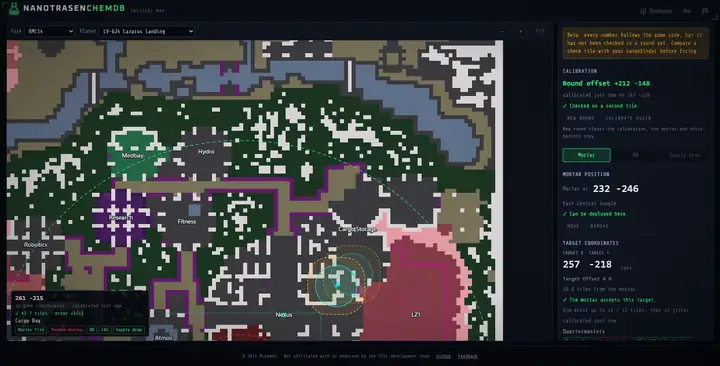
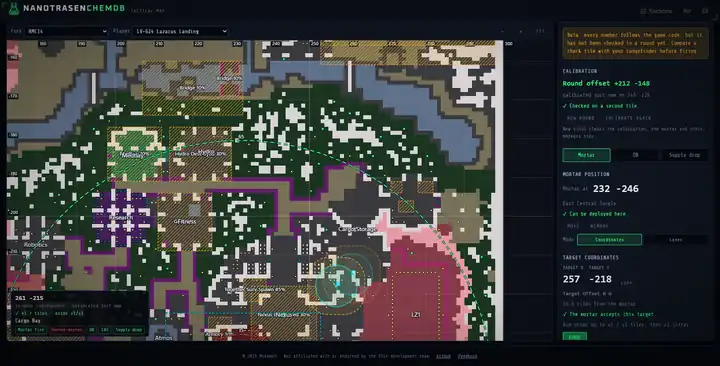
docs(tactical): T10-T12 done, release notes, sitemap, goals registry, card
ROADMAP: T10-T12 [x] with the preview evidence, revision row 3.5 closing
Series T (the final audit cancelled by the owner). README feature row,
CHANGELOG entry for the series and its data contract, tactical.html in the
sitemap, the fifteen tactical_* events in the Metrika goals registry (not
created — that needs the owner's ok), the Sections card re-shot with the
inserts and rings, its what's-new line and inside list refreshed
(home.js v6, service worker cache v106).

diff --git a/sw.js b/sw.js
@@ -3,7 +3,7 @@
 // network-first with cache fallback — fresh while online, functional offline.
 // data.json is requested with a ?v=Date.now() cache-buster, so fallback
 // matching ignores the query string to hit the cached copy.
-const CACHE = 'chemdb-v105';
+const CACHE = 'chemdb-v106';
 // Data lives in its own UNVERSIONED cache: shell-cache bumps must never
 // wipe the 3MB data.json — losing it right after an update + one flaky
 // network moment = hard "Failed to load" (user-reported on mobile).
@@ -20,7 +20,7 @@ const PRECACHE = [
   './botany.js?v=1',
   './vessels.js?v=3',
   './mixes.js?v=2',
-  './home.js?v=5',
+  './home.js?v=6',
   './feedback.js?v=4',
   './library.html',
   './library.js?v=2',

diff --git a/index.html b/index.html
@@ -856,7 +856,7 @@
 <script src="botany.js?v=1" defer></script>
 <script src="vessels.js?v=3" defer></script>
 <script src="mixes.js?v=2" defer></script>
-<script src="home.js?v=5" defer></script>
+<script src="home.js?v=6" defer></script>
 <script src="feedback.js?v=4" defer></script>
 </body>
 </html>

diff --git a/scripts/create_metrika_goals.py b/scripts/create_metrika_goals.py
@@ -108,6 +108,22 @@ GOALS: list[tuple[str, str]] = [
     ("ordnance_mask_use",    "Взрывчатка: смесь из пересечения масок"),
     ("ordnance_recipe_use",  "Взрывчатка: готовый рецепт загружен"),
     ("ordnance_gallery_range", "Взрывчатка: дистанция в витрине"),
+    # Series T — tactical map (tactical.html); ids next to track() in tactical/tactical.js
+    ("tactical_open",           "Тактическая карта: открыта планета"),
+    ("tactical_calibrate",      "Тактическая карта: калибровка раунда"),
+    ("tactical_check_match",    "Тактическая карта: проверочный тайл сошёлся"),
+    ("tactical_check_mismatch", "Тактическая карта: проверочный тайл не сошёлся"),
+    ("tactical_same_round",     "Тактическая карта: «тот же раунд»"),
+    ("tactical_new_round",      "Тактическая карта: «новый раунд»"),
+    ("tactical_copy",           "Тактическая карта: координаты скопированы"),
+    ("tactical_mortar_place",   "Тактическая карта: позиция миномёта"),
+    ("tactical_target",         "Тактическая карта: цель установлена"),
+    ("tactical_shot",           "Тактическая карта: «Выстрел»"),
+    ("tactical_undo_shot",      "Тактическая карта: выстрел отменён"),
+    ("tactical_impact",         "Тактическая карта: «Упало здесь»"),
+    ("tactical_ob_fire",        "Тактическая карта: ОБ отмечен"),
+    ("tactical_marker_add",     "Тактическая карта: метка добавлена"),
+    ("tactical_shape_add",      "Тактическая карта: линия или зона добавлена"),
     ("ordnance_burn_window", "Взрывчатка: окно горения"),
     ("ordnance_surf_swap", "Взрывчатка: обмен высоты и цвета"),
     ("ordnance_req_exclude", "Взрывчатка: исключён реагент из поиска"),

diff --git a/ROADMAP.md b/ROADMAP.md
@@ -742,11 +742,11 @@ SHA коммита на форк, обход нужных поддеревьев
 ### T10. Изменчивые участки `[x]` (2026-09-13; в превью LV-624: штриховка с подписями «Armory 30%», «Central Caves 20%», «Nexus Barricaded 30%», наведение на Corporate Dome даёт «may differ this round: Corporate Dome 10% (in scenario asset_protection)»; эталоны LV-624 и 6 синтетических случаев в `check_tactical.py`; все 4 форка пересобраны, у CMU/RuCM по 15 маркеров) — HAE 4h (backend + frontend) — **зависит от T1**
 Контуры вставок, повтор цикла `ProcessMapInsert` по сценариям планеты, штриховка и проценты, пометка ориентиров внутри. **DoD:** эталоны LV-624 (Corporate Dome 0,1; CLF ship 0; выжившие по 0,45; центр Nexus 0,3); синтетика со смешанными сценариями. Пометка ориентиров внутри — в T11 (ориентиров ещё нет).
 
-### T11. Ориентиры `[ ]` — HAE 5h (backend + frontend) — **зависит от T2**
-Категории и надёжность, миниатюры с 6 px на тайл, фильтры категорий. **DoD:** миниатюры по масштабу; «могут сдвинуть» скрыты по умолчанию.
+### T11. Ориентиры `[x]` (2026-09-13; в превью LV-624: значки категорий от 6 px на тайл, наведение «Ориентир: Столы», «Двери и шлюзы · secure airlock», «Фонари и лампы · tall floodlight (в изменчивом участке)»; стеллажи/ящики/автоматы/баки скрыты по умолчанию и включаются флажком; LV-624 — 1 313 ориентиров из 98 прототипов, 11 категорий) — HAE 5h (backend + frontend) — **зависит от T2**
+Категории и надёжность, миниатюры с 6 px на тайл, фильтры категорий. **DoD:** миниатюры по масштабу; «могут сдвинуть» скрыты по умолчанию. Правила категорий — `LANDMARK_RULES` экстрактора; ориентир внутри изменчивого участка страница приглушает.
 
-### T12. Спрайты, выпуск, итоговый аудит `[ ]` — HAE 5h (frontend + docs) — **зависит от T1–T11**
-Спрайты с 24 px на тайл, `NOTICES` с авторами из `meta.json`; README, CHANGELOG, `sitemap.xml`, реестр целей Метрики (создание — по «ок» владельца), скриншот карточки; итоговый аудит. **DoD:** спрайты вблизи; авторы в `NOTICES`; документы; аудит.
+### T12. Спрайты, выпуск `[x]` (2026-09-13; в превью LV-624 от 24 px на тайл: шлюзы, посадочные огни, деревья и столы спрайтами игры из атласа `tactical/rmc14/sprites.png` (374 прототипа, 231 RSI, все CC-BY-SA-3.0); блок `NOTICES` генерируется экстрактором; README, CHANGELOG, `sitemap.xml`, 15 целей `tactical_*` в реестре (не созданы — ждут «ок»), карточка раздела переснята; итоговый аудит владелец отменил: «лишние аудиты сейчас не нужны») — HAE 5h (frontend + docs) — **зависит от T1–T11**
+Спрайты с 24 px на тайл, `NOTICES` с авторами из `meta.json`; README, CHANGELOG, `sitemap.xml`, реестр целей Метрики (создание — по «ок» владельца), скриншот карточки. **DoD:** спрайты вблизи; авторы в `NOTICES`; документы.
 
 **Шаг владельца до анонса:** push; контрольный раунд — калибровка на тайле пола, три тайла дальномером (один с отрицательными мировыми координатами), осветительные снаряды со сверкой имени Para-Cam; после T8 — то же на одной планете CMU.
 
@@ -781,3 +781,4 @@ SHA коммита на форк, обход нужных поддеревьев
 | 2026-09-13 | 3.2 | Серия T («Тактическая карта») добавлена: спека [docs/design/2026-09-13-tactical-map.md](docs/design/2026-09-13-tactical-map.md), одобренная владельцем по разделам, и war-room из 5 экспертов (первый раунд; владелец остановил обсуждение: «просто реализуй») — [docs/decisions/2026-09-13_tactical-map.md](docs/decisions/2026-09-13_tactical-map.md). Находки, изменившие дизайн: кеш `cache_maps/` заморожен до переезда CMU в `Content.CMU`, а деревья всех четырёх репозиториев урезаны → свой экстрактор с SHA коммита и кешем блобов; у CMU/RuCM дальность миномёта 8–165 и правило колонны этажей; во вставках RMC14 нет ни одной «всегда»; дальномеру не нужны флаги зоны; окно миномёта заполняет цель заранее, поэтому вариант «смещение» — отдельная карточка. T1–T12 ≈ 60h |
 | 2026-09-13 | 3.3 | Серия T: T1–T3 выполнены (60a6ce3, 3b54afc, 1c85029). Запрос владельца посреди T3 — круг зоны поражения у курсора с настраиваемым радиусом — внесён в T4 (радиус снаряда и контур с ошибкой прицела), T5 (круг на цели до падения) и T7 (боеголовка ОБ и разброс); отчёт разведки CMU — в спеке |
 | 2026-09-13 | 3.4 | Серия T: T4 выполнен — позиция миномёта, карточка цели в терминах окна форка, слои «куда не бьёт» / «где развернуть», круг поражения и пунктирный контур прилёта (ошибка ±e и дрожание ±1) у курсора и у цели, радиусы снарядов из прототипов (`constants.shells`, HE 5,35, Stories Frag 3,87, зажигательный 5), карточка «Тактическая карта» в «Разделах». Запрос владельца «линии и области для офицера» внесён в T6 (HAE 3h → 5h). Попутно: `ss14_map_extractor.py` решает пустоту тайла по имени в `tilemap`, а не по id 0 (7eff175, шесть карт перепечены). |
+| 2026-09-13 | 3.5 | Серия T закрыта: T5–T12 выполнены (цикл огня ed8d6dd, метки/линии/зоны, ОБ и сброс поставки 80c4dee, CMU и RuCM с этажами c274698, сетка и линейка 5aa5a4b, изменчивые участки db65438, ориентиры и спрайты — этот коммит). Итоговый аудит серии владелец отменил («лишние аудиты сейчас не нужны»); остаются шаг владельца до анонса (push, контрольный раунд) и регистрация 15 целей `tactical_*` по «ок». Просьбы владельца по ходу: круг зоны поражения у курсора и зона возможного прилёта (T4), линии и зоны «офицерского режима» (T6), ярче кольца дальности (2544d86); перепекание 11 карт вкладки «Карты» отложено по слову владельца |

diff --git a/CHANGELOG.md b/CHANGELOG.md
@@ -3,6 +3,46 @@
 `data.json` schema version is in `meta.schemaVersion`. Consumers reading this file
 should pin on a compatible range (semver: breaking changes bump major).
 
+## Series T — 2026-09-13 (Tactical map: `tactical.html`, `tactical/index.json` schema 1)
+
+A standalone page for the marine forks — RMC14, Space Stories, Colonial
+Marines Universe and Russian Marine Corps — that turns the in-game tacmap into
+a coordinate and fire-support helper. Every number follows the game code at a
+pinned commit (`ss14_tactical.py`, sparse blobless clones, `REVIEW` list of the
+formula files by blob SHA); none of it has been checked in a live round yet, and
+the page says so.
+
+**Coordinates and calibration.** Click a tile for its world coordinates; the
+planet moves by a random ±500 per axis every round (`rmc.planet_coordinate_variance`),
+so one lased tile calibrates the round and a second, compare-only tile confirms
+it. Coordinates copy as the rangefinder prints them (longitude first, ASCII minus).
+
+**Mortar.** Position, the 15–65 (CMU 8–165) range rings measured centre to
+corner, the no-error square, the aim error `floor(|Δ|/20)` per axis re-rolled
+on every «Set target», the ±10 dial, the [−1, 0, 0, 1] jitter, load/travel/
+warning/impact timers, «Fired» cards, «Landed here» impacts, laser mode; a hit
+zone that follows the cursor with the shell's own blast radius or the player's,
+and the dashed box of everywhere the shell can land.
+
+**OB and supply.** Warheads from `OrbitalCannonWarhead.explosion` (HE 17.54
+tiles, cluster, incendiary fire diamond, Aegis), the −3…+2 scatter, 12/16/20 s
+warnings, 24 s impact, 500 s cooldown; supply-drop tiles minus hard fixtures.
+
+**Layers.** Strike permissions per weapon (`Area` flags OB/CAS/mortar/supply/LZ/
+lasing), CMU levels with the column rule of `CMUTopDownOrdnanceSystem` (a strike
+must be allowed by every floor in the stack; a mortar deploys only under open
+sky), markers in five categories plus lines and areas shared as chat text, a
+grid every 10 tiles in in-game numbers, a ruler, variable areas (`MapInsert`
+variants with the odds from a replay of `SelectMapScenario` + `ProcessMapInsert`
+per planet scenario), landmarks by category with sprites from 24 px per tile.
+
+**Data.** `tactical/index.json` (forks, constants mirrored from the C# and
+checked, terms, planets, levels, scenarios) and `tactical/<fork>/<planet>[.<depth>].json|png`
+(bounds, areas, RLE grid, masks, labels, inserts, landmarks; `h` = sha1 of body
+and PNG). `scripts/check_tactical.py` validates the files, replays the LV-624
+goldens and six synthetic scenario mixes; `scripts/test_tactical_logic.js` covers
+the page logic. Sprite attribution is generated into `NOTICES`.
+
 ## Series R14–R17 — 2026-09-13 (tanks through a beaker, numbered steps, mixes and pills)
 
 The owner ran the vessel planner on a real shift and came back with one

diff --git a/README.md b/README.md
@@ -35,6 +35,7 @@ Search reagents, plan reactions, explore craft trees, and calculate batch recipe
 | **Maps** | Item finder | Pick a station map, search any item — see where it spawns on a rendered schematic with locker/vendor/floor sources, grouped by nearest beacon |
 | **Ordnance** | Casing calculator | Space Stories fork: pick a casing, mix reagents, see power, blast radius, shrapnel and fire live — plus curves, a two-reagent heatmap, and the cheapest mixture that still hits a given share of the ceiling |
 | **Library** | In-game documents | Player-written doctrines, field manuals and role memos stored verbatim as SS14 paper markup — read them as in game, copy the markup to issue the paper again. Separate page: [library.html](https://mikameo.github.io/space-station-recipes/library.html) |
+| **Tactical** | Marine tactical map | RMC14, Space Stories, CMU and RuCM planets as the in-game tacmap: click a tile for its coordinates, calibrate once per round against one lased tile (the planet shifts ±500 each round), a mortar helper (rings, aim error, dial, shot timers, hit zone), OB and supply-drop permissions, markers, lines and areas shared as chat text, a grid in in-game numbers, variable map areas with their odds, landmarks with sprites up close. Separate page: [tactical.html](https://mikameo.github.io/space-station-recipes/tactical.html) |
 | **Sections** | Platform map | ⊞ Sections — every section as a card with a screenshot and what is inside; a card lights up (amber border, dot, one "what's new" line; green for a new section) when it changed since your last visit. Opens itself on your second visit and whenever something is new — switch that off in the overlay |
 | **Feedback** | Idea form & survey | A two-field idea form, no sign-up, filed as a public GitHub issue through a small Cloudflare Worker (`worker/`); from the third visit a one-time survey asks what was hardest and what is missing |
 | **Sell list** | Map price manifest | Every item on the selected map with count, sell price, and total — sortable columns, class chips (guns/melee/food/armor/…), guaranteed-vs-chance loot filter |
